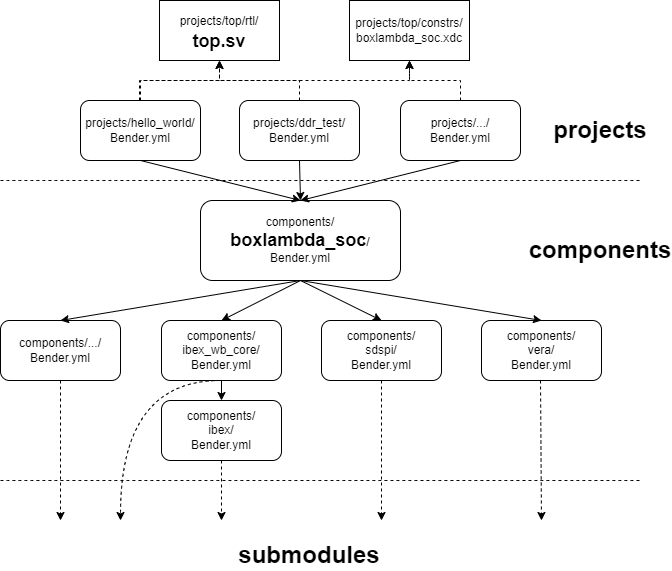
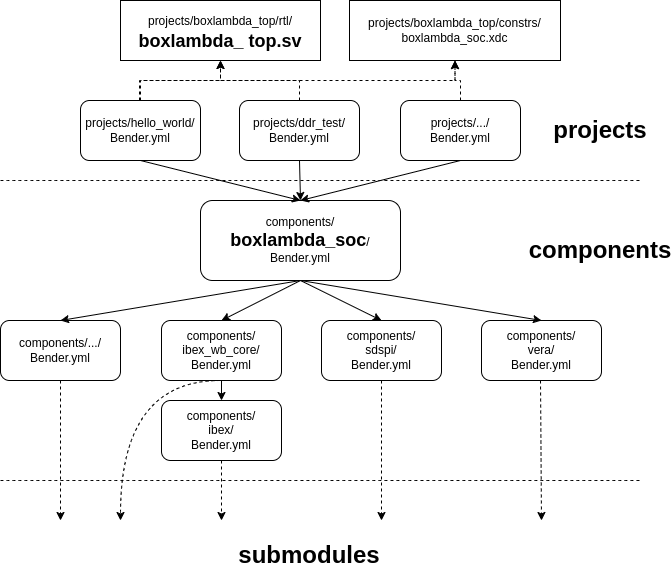
top->boxlambda_top and openocd cfg filename changes

diff --git a/docs/components_boxlambda_soc.md b/docs/components_boxlambda_soc.md
@@ -1,6 +1,6 @@
 ## The BoxLambda SoC Component
 
-- **BoxLambda SoC Component in the BoxLambda Directory Tree**: 
+- **BoxLambda SoC Component in the BoxLambda Directory Tree**:
     [boxlambda/gw/components/boxlambda_soc](https://github.com/epsilon537/boxlambda/tree/master/gw/components/boxlambda_soc)
 
 - **BoxLambda SoC Module**:
@@ -24,8 +24,8 @@ module boxlambda_soc #(
     ) (
     input  wire       ext_clk_100, //100MHz external clock.
     input  wire       ext_rst_n,   //External reset pin.
-    
-`ifdef VERILATOR  
+
+`ifdef VERILATOR
   /*These JTAG signals are not used on FPGA (they are used in simulation).
    *On FPGA, the JTAG signals are driven by a BSCANE2 primitive inside the jtag tap module dmi_bscane_tap.sv.
    */
@@ -57,16 +57,16 @@ module boxlambda_soc #(
     output wire ddram_reset_n,
 `endif
     // VGA interface
-    output wire  [3:0] vga_r,       
-    output wire  [3:0] vga_g,       
-    output wire  [3:0] vga_b,       
-    output wire        vga_hsync,   
-    output wire        vga_vsync,   
+    output wire  [3:0] vga_r,
+    output wire  [3:0] vga_g,
+    output wire  [3:0] vga_b,
+    output wire        vga_hsync,
+    output wire        vga_vsync,
     // SDSPI interface
-    output wire  sdspi_cs_n, 
-    output wire  sdspi_sck, 
+    output wire  sdspi_cs_n,
+    output wire  sdspi_sck,
     output wire  sdspi_mosi,
-    input  wire	 sdspi_miso, 
+    input  wire	 sdspi_miso,
     input  wire  sdspi_card_detect_n,
     // Audio interface
     output wire       audio_out,
@@ -76,7 +76,7 @@ module boxlambda_soc #(
     // Audio interface signals only used in simulation
     output wire [15:0] pcm_out,
     output wire acc1_overflow,
-    output wire acc2_overflow,  
+    output wire acc2_overflow,
 `endif
     // UART and GPIO
     input  wire       uart_rx,
@@ -90,9 +90,9 @@ The [Gateware Build Structure](build_sys_gw_build_struct.md#the-gateware-build-s
 
 ![BoxLambda SoC Component Build Diagram.](assets/BoxLambda_SoC_Component_Build_Diagram.png)
 
-*Build Diagram with BoxLambda SoC component and top.sv.*
+*Build Diagram with BoxLambda SoC component and boxlambda_top.sv.*
 
 Different *gw/project/* builds reference this *boxlambda_soc* component. The project builds differ in the way they instantiate the *boxlambda_soc* module, including or excluding specific subcomponents. Most *gw/projects*
- reference the same [top.sv](https://github.com/epsilon537/boxlambda/blob/master/gw/projects/top/rtl/top.sv) module but with a different combination of *defines* in their *Bender.yml* manifest.
+ reference the same [boxlambda_top.sv](https://github.com/epsilon537/boxlambda/blob/master/gw/projects/boxlambda_top/rtl/boxlambda_top.sv) module but with a different combination of *defines* in their *Bender.yml* manifest.
 
 *Gw/project/* builds also differ in the software program they run on the SoC. This is specified in the *gw/project/*'s CMakefile.

diff --git a/docs/components_riscv_dbg.md b/docs/components_riscv_dbg.md
@@ -17,8 +17,6 @@ OpenOCD is an open-source software package used to interface with a hardware deb
 
 *OpenOCD General Setup*
 
-BoxLambda uses the RISCV fork of OpenOCD: [https://github.com/riscv/riscv-openocd](https://github.com/riscv/riscv-openocd)
-
 ### The RISCV-DBG component
 
 RISCV-dbg is part of the [*PULP* platform](https://github.com/pulp-platform) and depends on three additional GitHub repositories that are part of this platform:
@@ -102,7 +100,7 @@ boxlambda
 
 ```
 
-The OpenOCD configuration file for JTAG Debugging on Verilator is checked into the *scripts/* directory: [scripts/verilator_riscv_dbg.cfg](https://github.com/epsilon537/boxlambda/blob/master/scripts/verilator_riscv_dbg.openocd.cfg)
+The OpenOCD configuration file for JTAG Debugging on Verilator is checked into the *scripts/* directory: [scripts/verilator.openocd.cfg](https://github.com/epsilon537/boxlambda/blob/master/scripts/verilator.openocd.cfg)
 
 To summarize:
 
@@ -134,8 +132,8 @@ On the OpenOCD side, the transport protocol for this Debug-Access-via-FPGA-scan-
 
 The OpenOCD configuration file for JTAG Debugging on Arty A7 is checked into the *scripts/* directory:
 
-- Arty-A7-35T: [scripts/digilent_arty_a7_35.cfg](https://github.com/epsilon537/boxlambda/blob/master/scripts/digilent_arty_a7_35.openocd.cfg)
-- Art-A7-100T: [scripts/digilent_arty_a7_100.cfg](https://github.com/epsilon537/boxlambda/blob/master/scripts/digilent_arty_a7_100.openocd.cfg)
+- Arty-A7-35T: [scripts/arty_a7_35t.cfg](https://github.com/epsilon537/boxlambda/blob/master/scripts/arty_a7_35t.openocd.cfg)
+- Art-A7-100T: [scripts/arty_a7_100t.cfg](https://github.com/epsilon537/boxlambda/blob/master/scripts/arty_a7_100t.openocd.cfg)
 
 To summarize:
 

diff --git a/docs/test-build-hello-world.md b/docs/test-build-hello-world.md
@@ -18,11 +18,11 @@ make hello_world_load
 
 Verify that the *Hello World* test program is running: The four LEDs on the Arty A7 should be blinking simultaneously.
 
-Start OpenOCD with the *digilent_arty_a7_[35|100].cfg* config file.
+Start OpenOCD with the *arty_a7_[35|100]t.openocd.cfg* config file.
 
 Note: If OpenOCD can't connect to the USB JTAG adapter, your USB device permissions might not be set correctly. Check the *User-Level Access to the Arty A7 USB JTAG Adapter* section above for a fix.
 ```
-openocd -f <boxlambda root directory>/scripts/digilent_arty_a7_[35|100].cfg
+openocd -f <boxlambda root directory>/scripts/arty_a7_[35|100]t.openocd.cfg
 
 Info : clock speed 1000 kHz
 Info : JTAG tap: riscv.cpu tap/device found: 0x0362d093 (mfg: 0x049 (Xilinx), part: 0x362d, ver: 0x0)
@@ -74,9 +74,9 @@ Launch the Verilator model with the *-d* flag to indicate that a debugger will b
 ```
 ./Vmodel -d
 ```
-Start OpenOCD with the *verilator_riscv_dbg.cfg* config file:
+Start OpenOCD with the *verilator.openocd.cfg* config file:
 ```
-openocd -f <boxlambda root directory>/scripts/verilator_riscv_dbg.cfg
+openocd -f <boxlambda root directory>/scripts/verilator.openocd.cfg
 Open On-Chip Debugger 0.11.0+dev-02372-g52177592f (2022-08-10-14:11)
 Licensed under GNU GPL v2
 For bug reports, read
